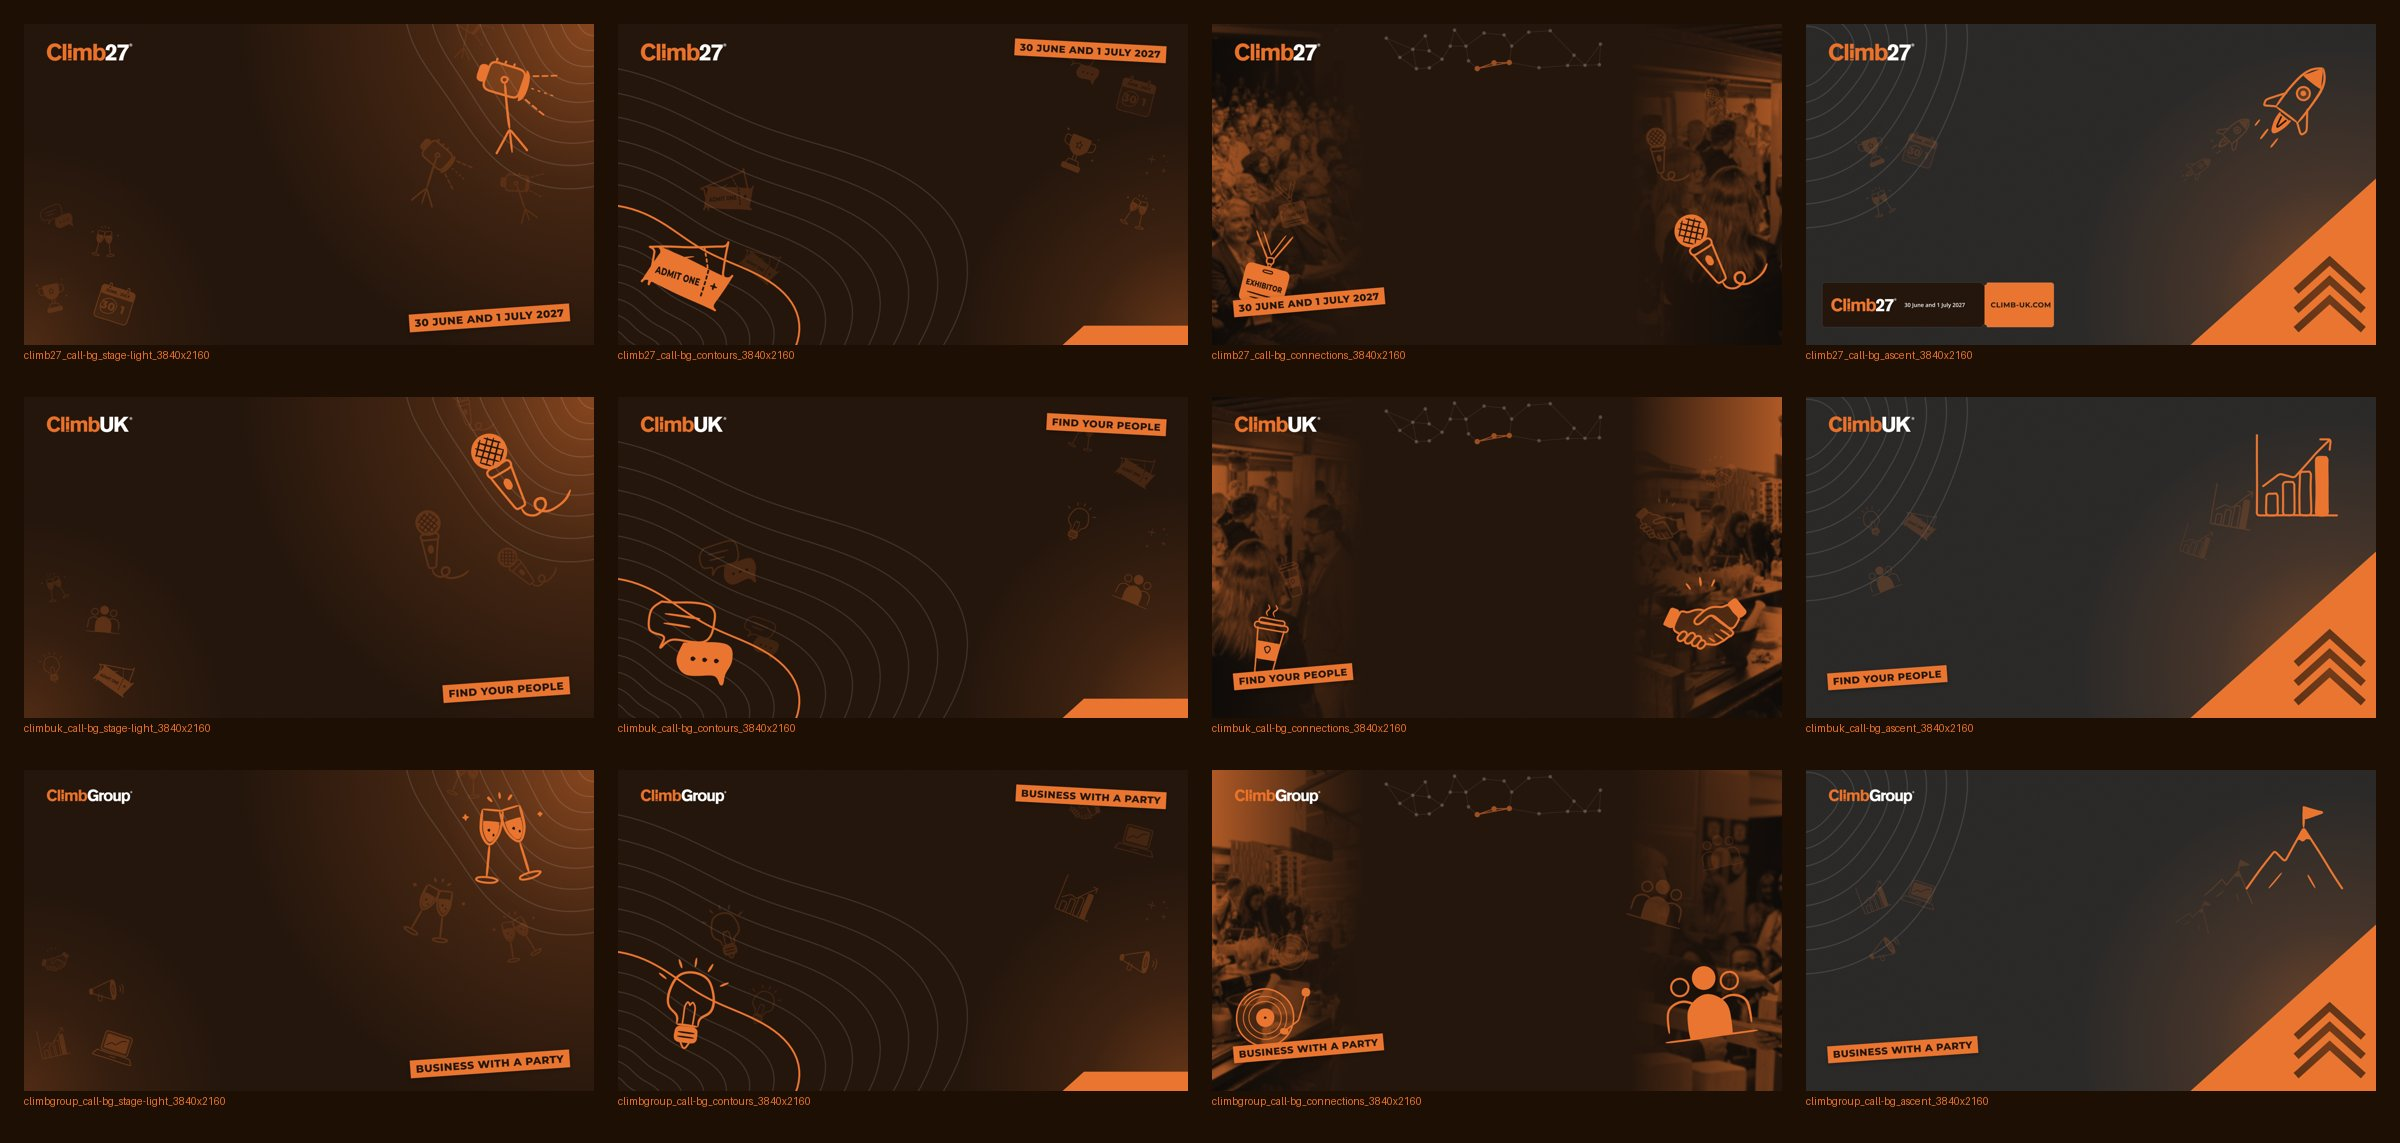
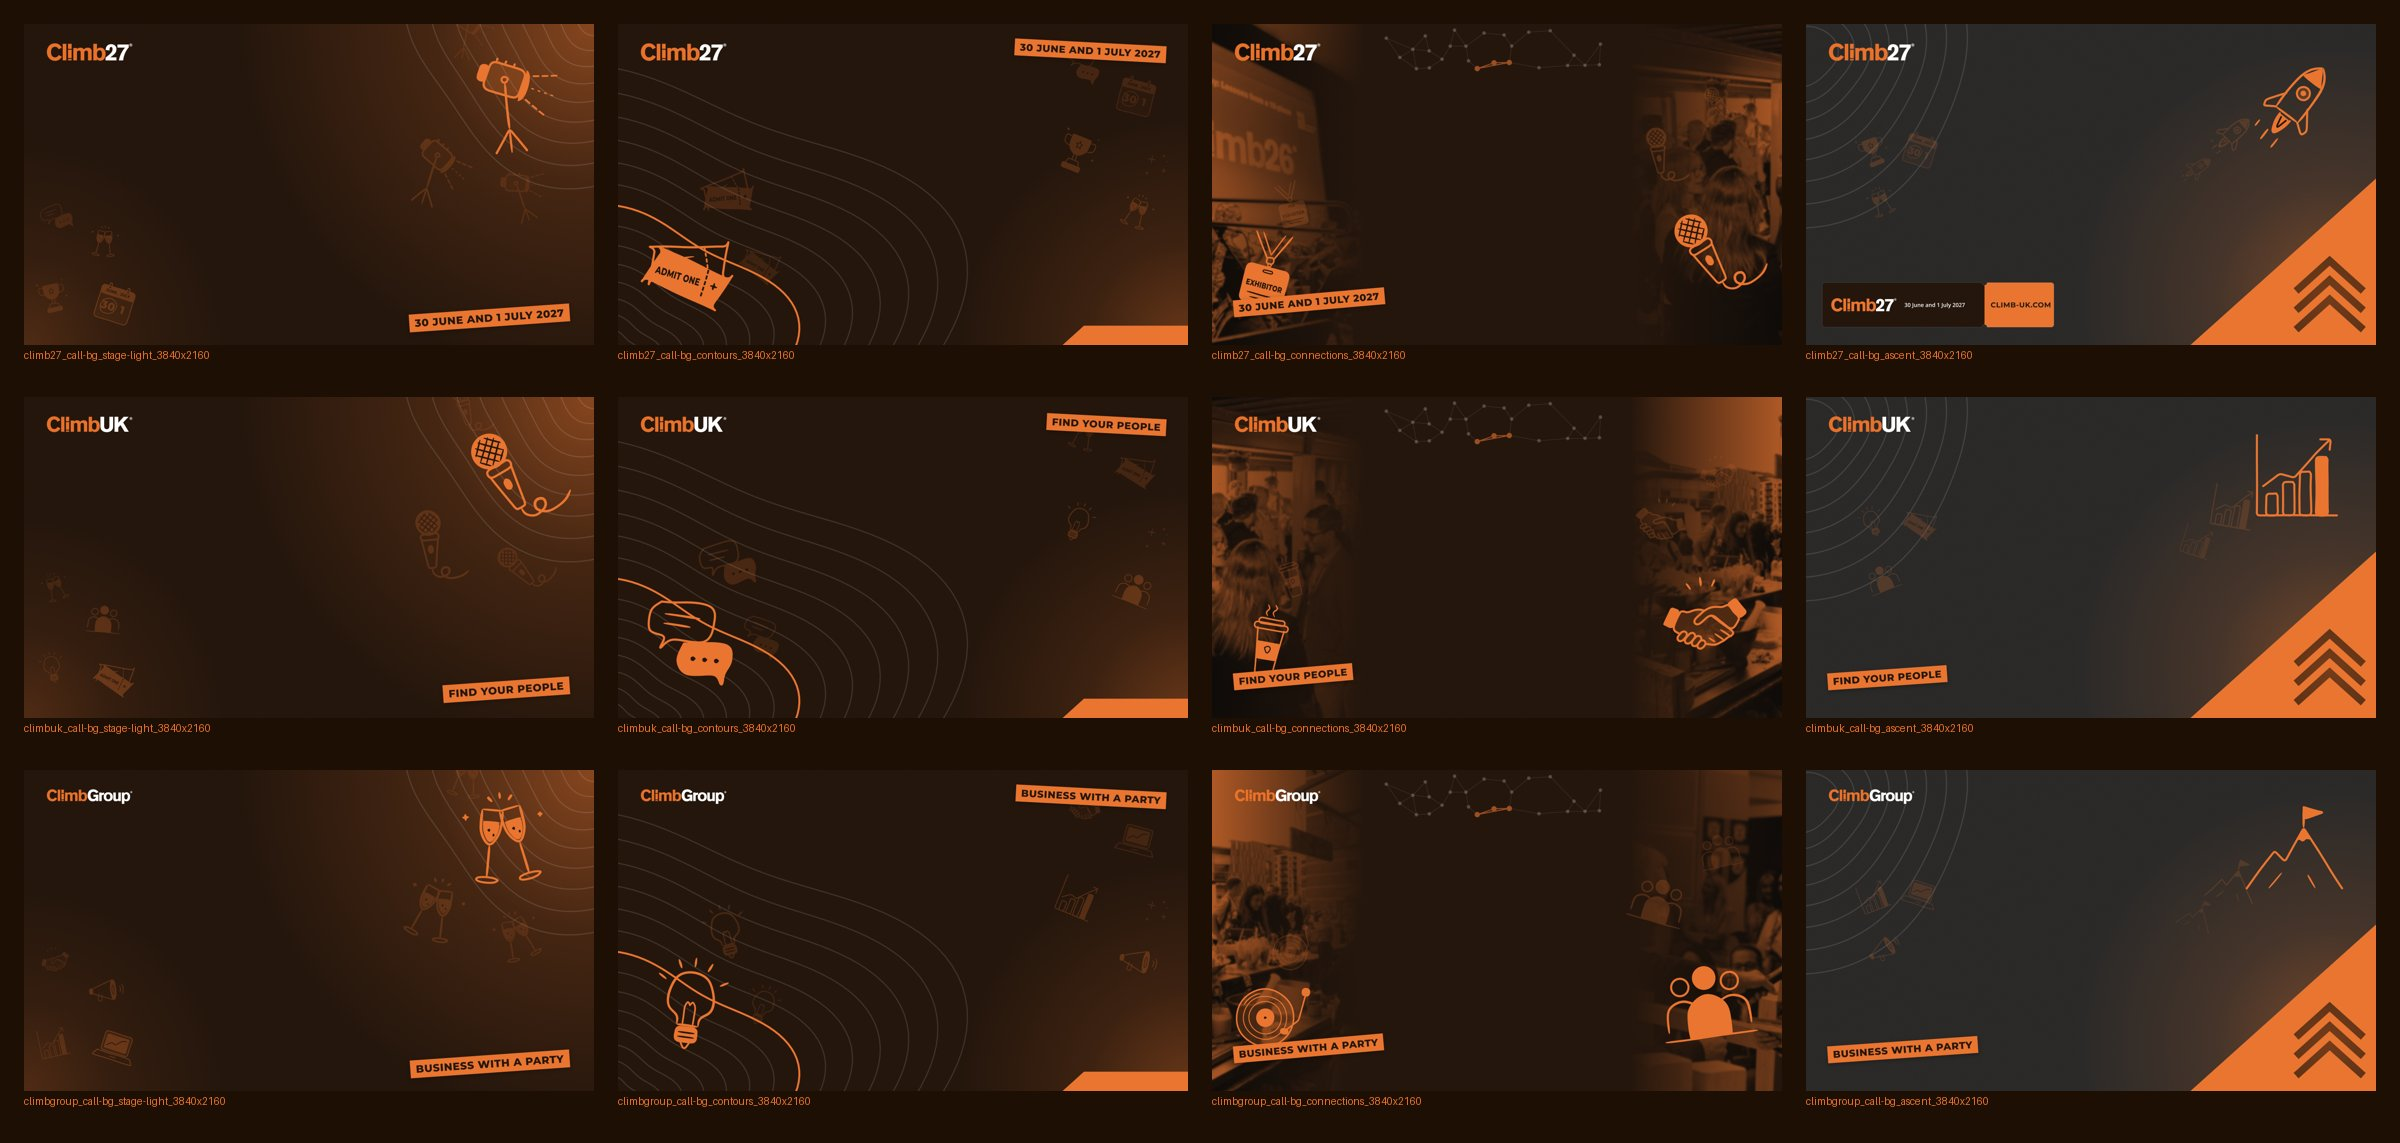
fix(social): run YouTube photos as slanted walls, keep Facebook drawings off photos
YouTube banners swap the tilted photo cards for full-height slanted photo
walls off both edges with a slab on the inner edge, like the X header.
Facebook cover drawings move to the ground above the line, clear of faces.
Previews rebuilt with the brass section and the full-bleed pack photos.

Changed region(s): [[0.5, 0.0, 0.5625, 0.3062]]

diff --git a/generators/poster_kit.py b/generators/poster_kit.py
@@ -505,7 +505,8 @@ def facebook_cover(C, brand):
     p.append(head([HEADER_LINES[brand]], 330, 300, 74, 760, eyebrow=B["eyebrow"] if brand != "Climb27" else C.DATES))
     p.append(hero(B["heroes"][2], 1110, 150, 260, rot=-6, ghosts=[(0.55, -0.35, 0.55, 16, 0.2)]))
     p.append(F.logo_img(C, brand, "reversed-dark", 330, 150, 220))
-    p.append(scatter(B["extras"], (40, 40, 360, h - 40), 3, (110, 140), seed=6, opacity=(0.5, 0.7)))
+    # drawings stay on the ground between the photos, never over a face
+    p.append(scatter(B["extras"], (450, 30, 1060, 140), 3, (80, 100), seed=6, opacity=(0.5, 0.7)))
     p.append(sticker(B["sticker"] if brand != "Climb27" else "Get your ticket", 340, h - 110, 22, rot=-4, side="right"))
     copy = [plain(HEADER_LINES[brand]), B["eyebrow"], C.DATES, B["sticker"], "Get your ticket"]
     return asset(name, "Social", brand, w, h, p, copy, scale=2)
@@ -531,12 +532,25 @@ def youtube_banner(C, brand, tone):
         p.append(glow(w, h, w * 0.5, h * 0.62, 900, 0.4))
     else:
         p.append('<div class="abs" style="left:0;top:0;width:%dpx;height:%dpx;background:%s"></div>' % (w, h, OR))
-        p.append(scatter(B["extras"], (80, 80, w - 80, sy - 60), 6, (150, 200), seed=9, opacity=(0.18, 0.28), ink=DB))
-    # band photos left and right of the safe area, so the desktop crop still shows real people
-    for k, ph in enumerate(B["photos"][1:3]):
-        x = 60 if k == 0 else sx + sw + 60
-        p.append(K.pic(ph, x, sy, sx - 120, sh, pos="center 35%", radius=18, rot=-3 if k == 0 else 3,
-                       duo=not dark, fade=None if dark else fade("to bottom", 0, 100, 0.0, 0.25)))
+        p.append(scatter(B["extras"], (sx, 70, sx + sw, sy - 50), 5, (140, 190), seed=9, opacity=(0.18, 0.28), ink=DB))
+    # slanted photo walls run off both edges at full height, like the X header, so the desktop band shows real
+    # people either side of the safe area and the TV view reads as one poster, not cards laid on a ground
+    ground = DB_RGB if dark else OR_RGB
+    tw, skew, gap = 262, 170, 12
+    walls = [(-150, B["photos"][1:3]), (sx + sw - 20, (B["photos"] * 2)[3:6])]
+    for x0, photos in walls:
+        for k, ph in enumerate(photos):
+            x = x0 + k * (tw + gap)
+            poly = [(x + skew, 0), (x + skew + tw, 0), (x + tw, h), (x, h)]
+            p.append('<div class="abs" style="left:%.0fpx;top:0;width:%.0fpx;height:%.0fpx;clip-path:polygon(%s)">%s</div>'
+                     % (x, tw + skew, h, ",".join("%.0fpx %.0fpx" % (a - x, b) for a, b in poly),
+                        K.pic(ph, 0, 0, tw + skew, h, pos="center 35%", duo=not dark,
+                              fade="linear-gradient(to bottom, rgba(%s,.55) 0%%, rgba(%s,0) 30%%, rgba(%s,0) 70%%, rgba(%s,.7) 100%%)"
+                                   % (ground, ground, ground, ground))))
+        # the slab sits on the wall edge that faces the line
+        e = x0 + 2 * (tw + gap) - gap if x0 < sx else x0
+        d = 8 if x0 < sx else -30
+        p.append(slab_poly([(e + d, h), (e + d + skew, 0), (e + d + skew + 22, 0), (e + d + 22, h)], OR if dark else DB))
     ink = DB if not dark else WH
     p.append(head([line], sx + 60, sy + 130, 118, 1100, eyebrow=B["eyebrow"] if brand != "Climb27" else C.DATES,
                   colour=ink, sub_colour=ink, rule_on=dark))
